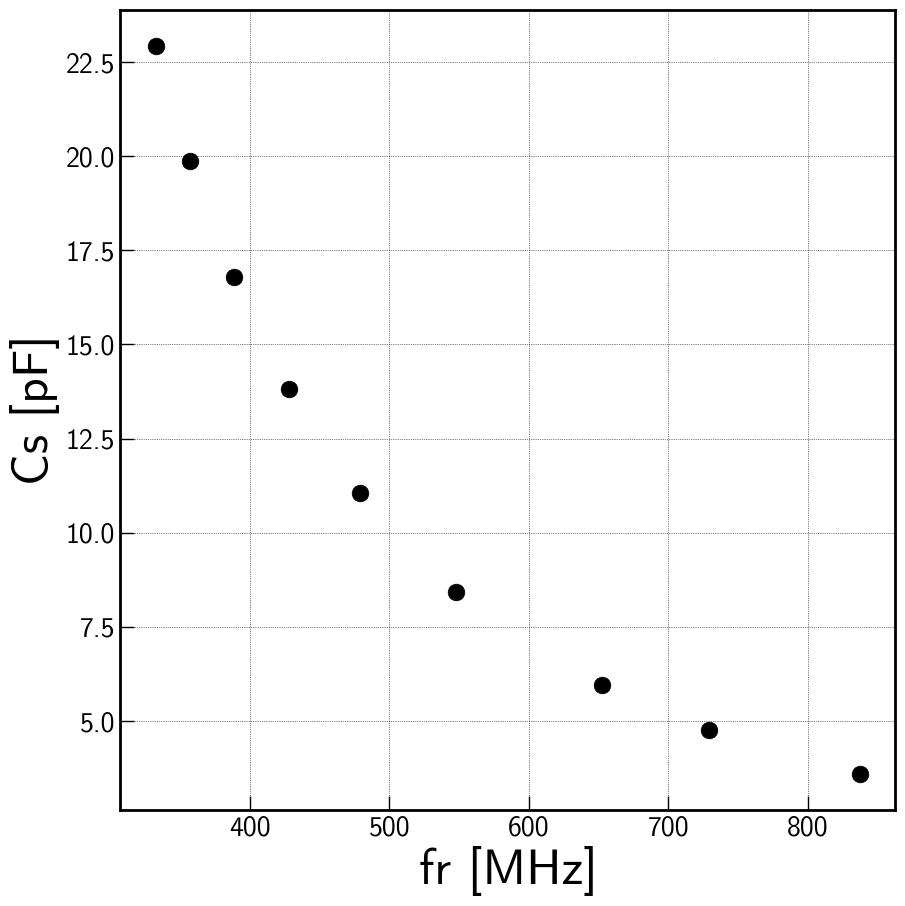
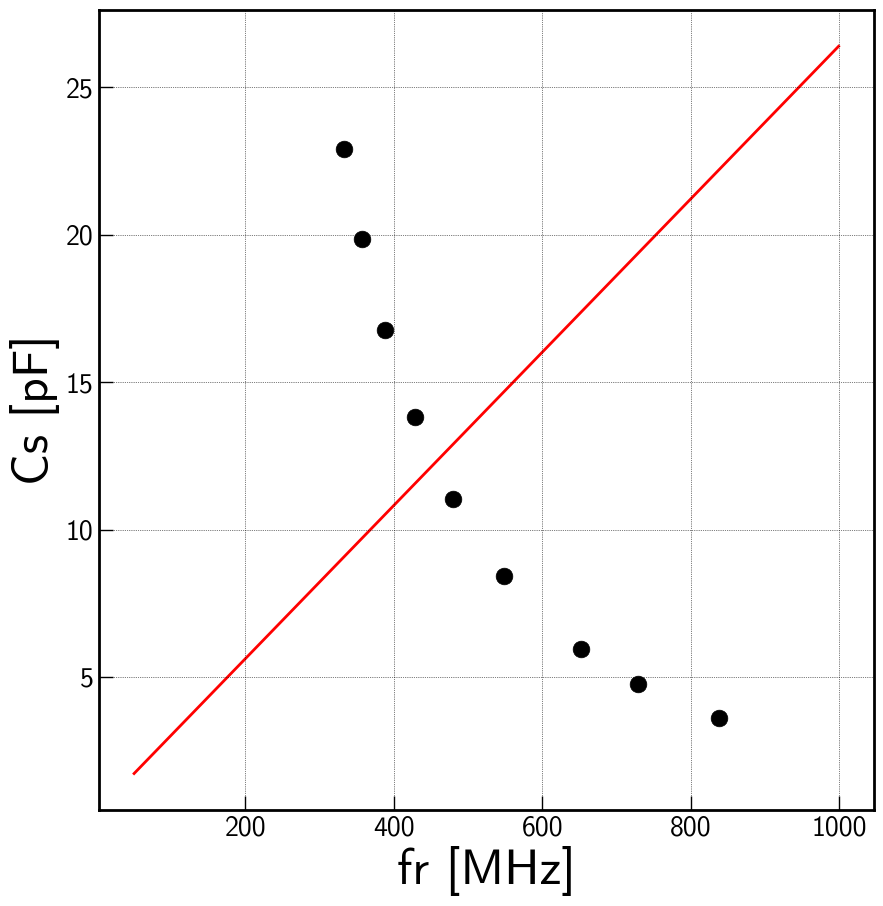
linear fit for the capacitance

diff --git a/code/TKIDModule_extractQcsfromfullresosims.py b/code/TKIDModule_extractQcsfromfullresosims.py
@@ -783,9 +783,12 @@ if __name__=="__main__":
     plt.savefig('extractedQc_vs_frequency.png')
     #plt.show()
 
+    p = np.polyfit(Nfingers, Cs/pF, 1)
+    print (p)
+    Cfine = np.polyval(p, Nfine)
     plt.figure()
     plt.plot(frs, Cs/pF, 'ko', ls='None', ms=12)
-    #plt.semilogy(Nfine, Qcfine, 'r-')
+    plt.plot(Nfine, Cfine, 'r-')
     plt.grid()
     plt.xlabel('fr [MHz]')
     plt.ylabel('Cs [pF]')
